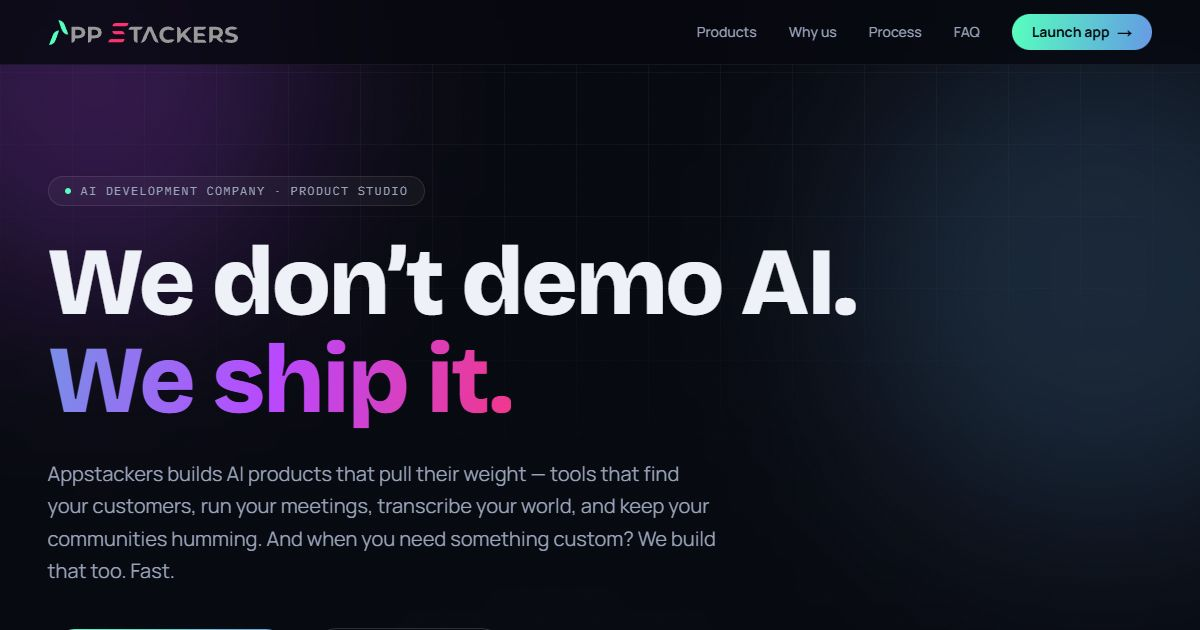
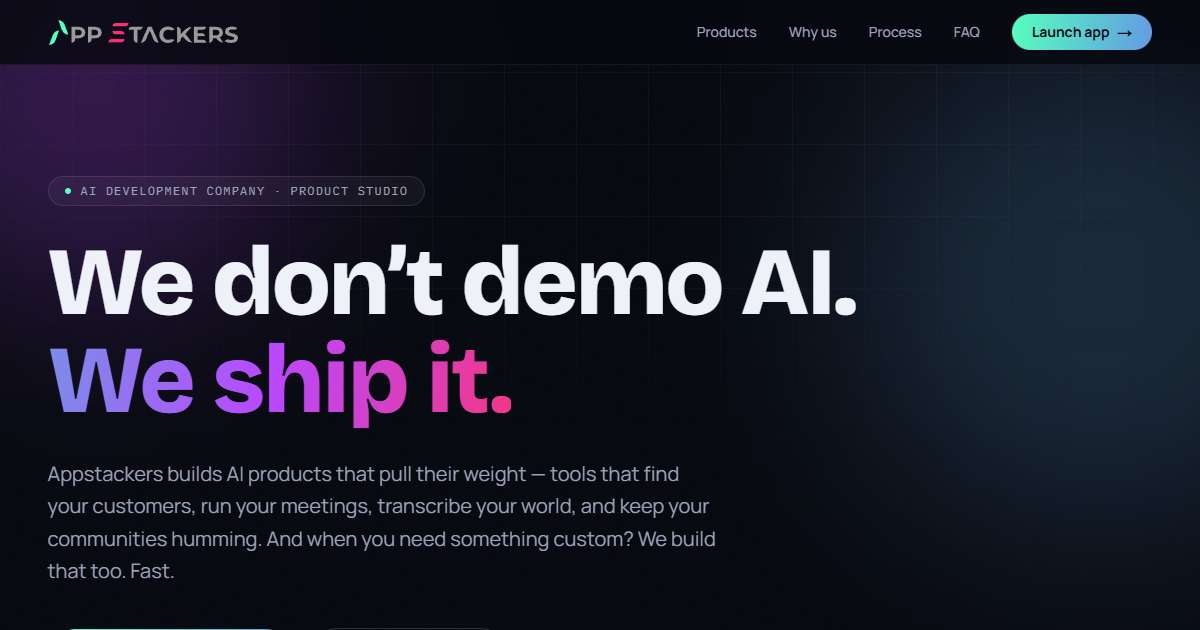
Fix list semantics in process section for screen readers
Lighthouse flagged <li> elements nested inside Reveal wrapper divs
within the <ol>. Restructure to ol > li > Reveal so list items are
direct children of the list.

Changed region(s): [[0.8633, 0.0302, 0.8942, 0.0603], [0.185, 0.6032, 0.2158, 0.6333]]

diff --git a/app/page.tsx b/app/page.tsx
@@ -365,20 +365,22 @@ export default function Home() {
 
             <ol className="mt-14 grid gap-6 sm:grid-cols-2 lg:grid-cols-4">
               {steps.map((s, i) => (
-                <Reveal key={s.num} delay={i * 110} className="h-full">
-                  <li className="group h-full rounded-3xl border border-white/[0.08] bg-pane/50 p-7 transition-colors duration-300 hover:border-white/20">
-                    <span className="gradient-text font-display text-5xl font-extrabold">
-                      {s.num}
-                    </span>
-                    <h3
-                      className="mt-4 font-display text-xl font-bold"
-                      style={{ fontFamily: "var(--font-display)" }}
-                    >
-                      {s.title}
-                    </h3>
-                    <p className="mt-3 text-sm leading-relaxed text-fog">{s.body}</p>
-                  </li>
-                </Reveal>
+                <li key={s.num} className="h-full">
+                  <Reveal delay={i * 110} className="h-full">
+                    <div className="group h-full rounded-3xl border border-white/[0.08] bg-pane/50 p-7 transition-colors duration-300 hover:border-white/20">
+                      <span className="gradient-text font-display text-5xl font-extrabold">
+                        {s.num}
+                      </span>
+                      <h3
+                        className="mt-4 font-display text-xl font-bold"
+                        style={{ fontFamily: "var(--font-display)" }}
+                      >
+                        {s.title}
+                      </h3>
+                      <p className="mt-3 text-sm leading-relaxed text-fog">{s.body}</p>
+                    </div>
+                  </Reveal>
+                </li>
               ))}
             </ol>
           </div>